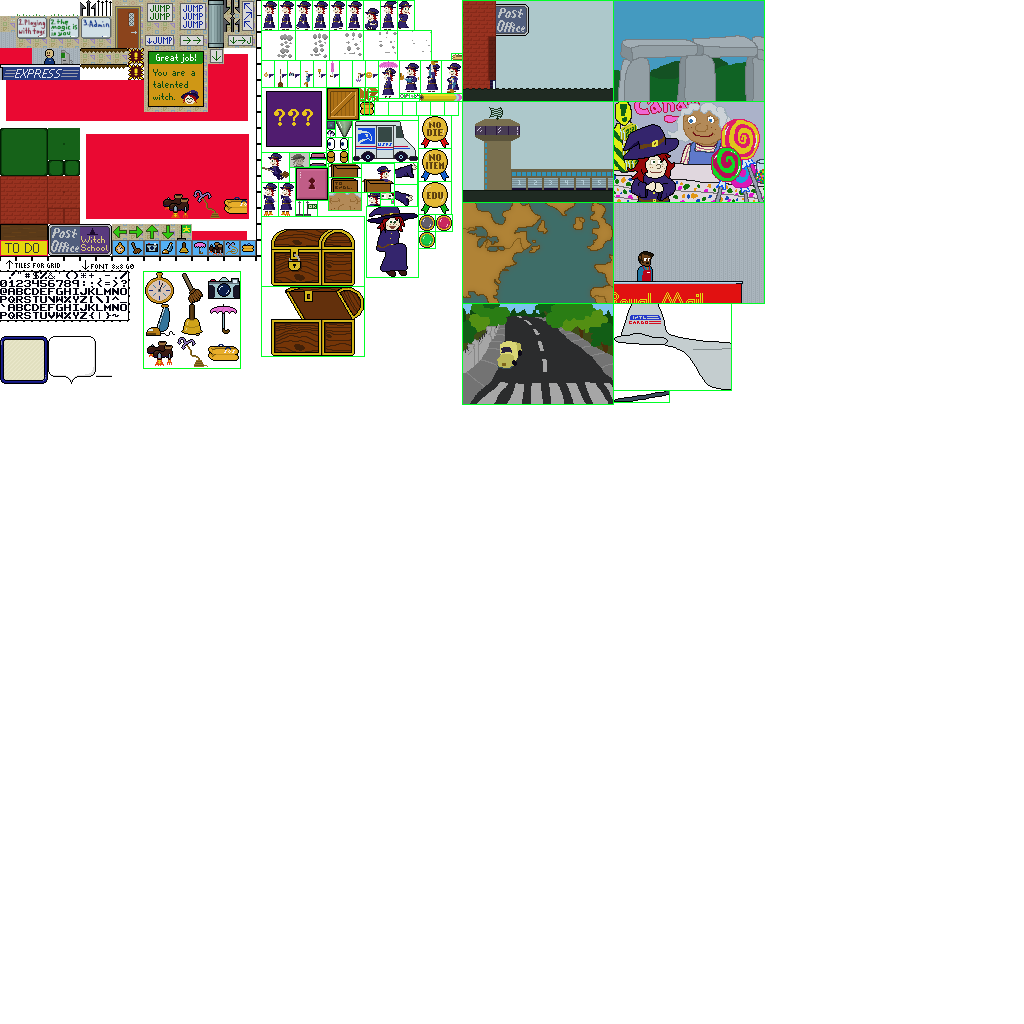
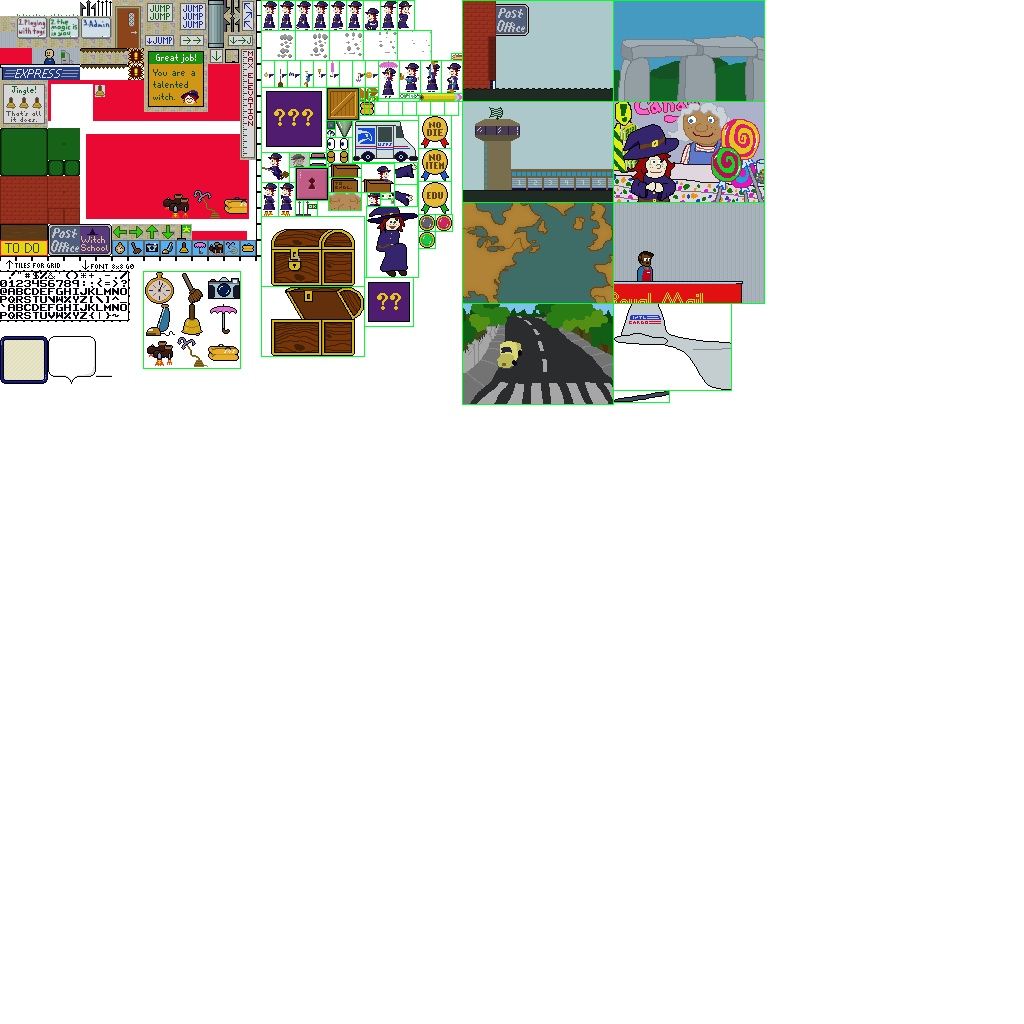
toy school, final touches

Changed region(s): [[0.0, 0.0625, 0.0938, 0.125], [0.2188, 0.0312, 0.25, 0.1562], [0.3438, 0.25, 0.4062, 0.3125]]

diff --git a/src/www/js/game/sprites/HeroSprite.js b/src/www/js/game/sprites/HeroSprite.js
@@ -8,7 +8,8 @@ import { AnimateOnceSprite } from "./AnimateOnceSprite.js";
 import { SelfieSprite } from "./SelfieSprite.js";
 import { GrappleSprite } from "./GrappleSprite.js";
 import { RaftSprite } from "./RaftSprite.js";
-import { SoulballsSprites } from "./SoulballsSprite.js";
+import { SoulballsSprite } from "./SoulballsSprite.js";
+import { BellRevelatorSprite } from "./BellRevelatorSprite.js";
 
 const JUMP_LIMIT_TIME = [0.300, 0.390, 0.450]; // s, indexed by jumpSequence
 const JUMP_SPEED_MAX = [380, 410, 450]; // px/sec, ''
@@ -918,6 +919,12 @@ export class HeroSprite extends Sprite {
       if (this.scene.game.permanentState[this.scene.itemConstraintFlag] !== false) {
         this.scene.game.setPermanentState(this.scene.itemConstraintFlag, true);
       }
+    }
+    
+    // Actually, one more thing: If there's a BellRevelatorSprite, kill it. There won't be more than one.
+    const revelator = this.scene.sprites.find(s => s instanceof BellRevelatorSprite);
+    if (revelator) {
+      this.scene.removeSprite(revelator);
     }
   }
   

diff --git a/src/www/js/game/Scene.js b/src/www/js/game/Scene.js
@@ -20,6 +20,7 @@ import { BlockSprite } from "./sprites/BlockSprite.js";
 import { ChestSprite } from "./sprites/ChestSprite.js";
 import { BoxSprite } from "./sprites/BoxSprite.js";
 import { TattleSprite } from "./sprites/TattleSprite.js";
+import { BellRevelatorSprite } from "./sprites/BellRevelatorSprite.js";
 
 const TILESIZE = 16;
  
@@ -208,6 +209,7 @@ export class Scene {
       case "FlagSprite": return new FlagSprite(this, col, row, cmd.slice(4));
       case "BoxSprite": return new BoxSprite(this, col, row, cmd.slice(4));
       case "TattleSprite": return new TattleSprite(this, col, row, cmd.slice(4));
+      case "BellRevelatorSprite": return new BellRevelatorSprite(this, col, row, cmd.slice(4));
     }
     throw new Error(`Unknown spriteId ${JSON.stringify(spriteId)}`);
   }

diff --git a/src/www/js/game/sprites/BellRevelatorSprite.js b/src/www/js/game/sprites/BellRevelatorSprite.js
@@ -1,0 +1,18 @@
+/* BellRevelatorSprite.js
+ */
+ 
+import { Sprite } from "../Sprite.js";
+
+const TILESIZE = 16;
+
+export class BellRevelatorSprite extends Sprite {
+  constructor(scene, col, row, args) {
+    super(scene);
+    this.x = col * TILESIZE;
+    this.y = row * TILESIZE;
+    this.vw = 3 * TILESIZE;
+    this.vh = 3 * TILESIZE;
+    this.srcx = 365;
+    this.srcy = 278;
+  }
+}

diff --git a/README.md b/README.md
@@ -16,12 +16,12 @@ https://github.com/aksommerville/too-heavy
 - - - I think the set-a-respawn-point when standing still logic has to go.
 - - - [ ] Try this: Respawn always at the entry point, and allow movement fast but prevent doors from working for a second or so
 - - [ ] Final maps.
-- - [ ] Tutorial 1: Playing With Toys
+- - [x] Tutorial 1: Playing With Toys
 - - - [x] Forbid using wrong items
-- - - [ ] Static education about broom height limit, it's not obvious.
+- - - [x] Static education about broom height limit, it's not obvious.
 - - - [x] Keep score.
 - - - [x] Camera: Add switch door, once that's made
-- - - [ ] Bell: How is this going to work?
+- - - [x] Bell: How is this going to work?
 - - [x] Tutorial 2: The Magic Is In You
 - - - [x] Forbid using items.
 - - - [x] Keep score.
